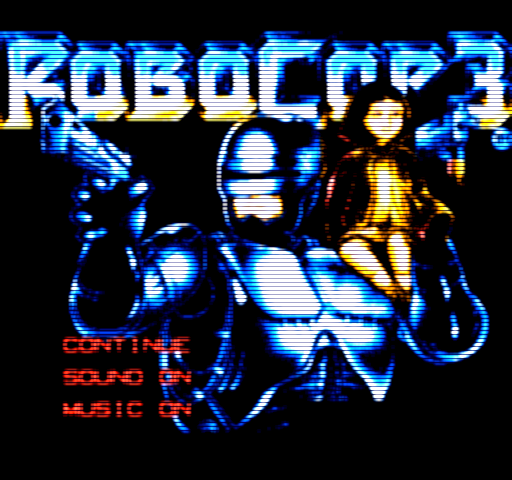
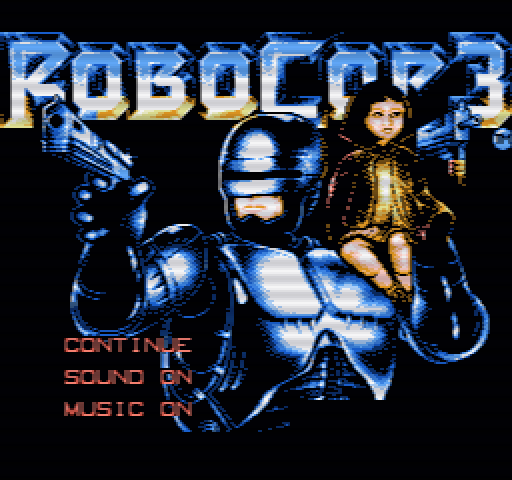
more progressish

diff --git a/main.py b/main.py
@@ -14,37 +14,51 @@ import re
 
 # This might be ported to another language.
 
-image_path = 'assets/jpg/sonic.jpg'
-image = cv2.imread(image_path)
-h, w = image.shape[:2]
-# fig, axs = plt.subplots(2,2,figsize=(9,9))
+# image_path = 'assets/jpg/sonic.jpg'
+# image = cv2.imread(image_path)
+# h, w = image.shape[:2]
+# # fig, axs = plt.subplots(2,2,figsize=(9,9))
 
-# Original Image
-image_rgb = cv2.cvtColor(image, cv2.COLOR_BGR2RGB)
-# axs[0][0].imshow(image_rgb)
-# axs[0][0].set_title('Original Image')
+# # Original Image
+# image_rgb = cv2.cvtColor(image, cv2.COLOR_BGR2RGB)
+# # axs[0][0].imshow(image_rgb)
+# # axs[0][0].set_title('Original Image')
 
-# Gaussian Blur
-Gaussian = cv2.GaussianBlur(image, (15, 15), 0)
-Gaussian_rgb = cv2.cvtColor(Gaussian, cv2.COLOR_BGR2RGB)  
-# axs[0][1].imshow(Gaussian_rgb)
-# axs[0][1].set_title('Gaussian Blur')
-cv2.imwrite('output/gaussian/sonic.png',Gaussian)
+# # Gaussian Blur
+# Gaussian = cv2.GaussianBlur(image, (15, 15), 0)
+# Gaussian_rgb = cv2.cvtColor(Gaussian, cv2.COLOR_BGR2RGB)  
+# # axs[0][1].imshow(Gaussian_rgb)
+# # axs[0][1].set_title('Gaussian Blur')
+# cv2.imwrite('output/gaussian/sonic.png',Gaussian)
 
-# Median Blur
-median = cv2.medianBlur(image, 11)  
-median_rgb = cv2.cvtColor(median, cv2.COLOR_BGR2RGB)  
-# axs[1][0].imshow(median_rgb)
-# axs[1][0].set_title('Median Blur')
-cv2.imwrite('output/median/sonic.png',median)
+# # Median Blur
+# median = cv2.medianBlur(image, 11)  
+# median_rgb = cv2.cvtColor(median, cv2.COLOR_BGR2RGB)  
+# # axs[1][0].imshow(median_rgb)
+# # axs[1][0].set_title('Median Blur')
+# cv2.imwrite('output/median/sonic.png',median)
 
-# Simulate green phosphor: Keep only green channel, make others 0
-# green_phosphor = image.copy()
-# green_phosphor[:, :, 0] = 0 # Blue
-# green_phosphor[:, :, 2] = 0 # Red
-# Add slight blur to simulate glow
+# # Simulate green phosphor: Keep only green channel, make others 0
+# # green_phosphor = image.copy()
+# # green_phosphor[:, :, 0] = 0 # Blue
+# # green_phosphor[:, :, 2] = 0 # Red
+# # Add slight blur to simulate glow
 
-def apply_crt_filter(filepath, scale = 1, scanline_interval = 3):
+def apply_scanlines(img, interval, offset=0, vertical=False, color=(25,0,0),thickness=1,inplace=True):
+    if not inplace: img = img.copy()
+    h,w = img.shape[:2]
+    if vertical:
+        for i in range(w//interval):
+            img = cv2.line(img, (i*interval+offset,0), (i*interval+offset,w),color,thickness)
+    else:
+        for i in range(h//interval):
+            img = cv2.line(img, (0,i*interval+offset), (w,i*interval+offset),color,thickness)
+    return img
+
+def overlayImages(img1,img2,weight1):
+    return cv2.addWeighted(img1,weight1,img2,1-weight1, 0)
+
+def apply_crt_filter(filepath, scale = 1, scanlines=True):
     filename = re.sub(r'(^.*/)|(\..*)', '', filepath)
     img = cv2.imread(filepath)
     # Resize image
@@ -56,30 +70,48 @@ def apply_crt_filter(filepath, scale = 1, scanline_interval = 3):
     else:
         new_h = height//scale
         new_w = width//scale
-    img = cv2.resize(img, (new_w,new_h))
-    height, width = new_h, new_w
+    img = cv2.resize(img, (new_w,new_h), interpolation=cv2.INTER_NEAREST)
+    # height, width = new_h, new_w
     # Increase saturation
-    imghsv = cv2.cvtColor(img, cv2.COLOR_BGR2HSV).astype("float32")
-    (h, s, v) = cv2.split(imghsv)
-    s = s*1.25
-    s = np.clip(s,0,255)
-    imghsv = cv2.merge([h,s,v])
-    imgrgb = cv2.cvtColor(imghsv.astype("uint8"), cv2.COLOR_HSV2BGR)
+    # imghsv = cv2.cvtColor(img, cv2.COLOR_BGR2HSV).astype("float32")
+    # (h, s, v) = cv2.split(imghsv)
+    # s = s*1.25
+    # s = np.clip(s,0,255)
+    # imghsv = cv2.merge([h,s,v])
+    # imgrgb = cv2.cvtColor(imghsv.astype("uint8"), cv2.COLOR_HSV2BGR)
     # Create copy to edit with
-    img_crt = imgrgb.copy()
+    # img_crt = imgrgb.copy()
+    img_crt = img.copy()
     # Apply vertical scanlines
     # interval2 = 3
     # for i in range(width//interval2):
     #     img_crt = cv2.line(img_crt, (i*interval2+interval2//2,0), (i*interval2+interval2//2,height),(0,0,0), 1)
-    # Apply blur
-    size = 5
-    img_crt = cv2.GaussianBlur(img_crt, (size,size),13)
+
+    
+    # num = 10
+    # alpha = 0.05
+    # offset division = 5
+    
+    # img_crt = cv2.blur(img_crt, (2,1))
+
     # Apply horizontal scanlines
-    for i in range(height//scanline_interval):
-        img_crt = cv2.line(img_crt, (0,i*scanline_interval+scanline_interval//2), (width,i*scanline_interval+scanline_interval//2),(25,0,0), 1)
+    if scanlines:
+        overlay = img_crt.copy()
+        num = 8
+        alpha = 0.05
+        for i in range(num+1):
+            temp = apply_scanlines(overlay,num,inplace=False,offset=num-i)
+            offset = (num-i)/12
+            img_crt = cv2.addWeighted(temp, alpha+offset, img_crt, 1-alpha-offset, 0)
+    
+
+    # Apply blur
+    # img_crt = cv2.GaussianBlur(img_crt, (5,1),1)
+
+    
     # Apply small blur on scanlines
-    size = 3
-    img_crt = cv2.GaussianBlur(img_crt, (size,size), 0.6)
+    # size = 3
+    # img_crt = cv2.GaussianBlur(img_crt, (size,size), 0.6)
     # # Apply contrast
     # lab= cv2.cvtColor(img_crt, cv2.COLOR_BGR2LAB)
     # l_channel, a, b = cv2.split(lab)
@@ -89,16 +121,32 @@ def apply_crt_filter(filepath, scale = 1, scanline_interval = 3):
     # limg = cv2.merge((cl,a,b))
     # enhanced_img = cv2.cvtColor(limg, cv2.COLOR_LAB2BGR)
     # img_crt = np.hstack((img_crt, enhanced_img))
-    weight1 = 2.5
-    img_crt = cv2.addWeighted(img_crt, weight1, imgrgb, 0, -50)
+    # weight1 = 2.5
+    # img_crt = cv2.addWeighted(img_crt, weight1, imgrgb, 0, -50)
     # TODO: blur horizontally more than vertically
+
+    # split into colors
+    # blue,green,red = cv2.split(img_crt)
+    # size,weight = (3,1),0.5
+    # blue = cv2.GaussianBlur(blue,size,weight)
+    # green = cv2.GaussianBlur(green,size,weight)
+    # red = cv2.GaussianBlur(red,size,weight)
+    # img_crt = cv2.merge([blue,green,red])
+    
+    # img_bilateral = cv2.bilateralFilter(img_crt,5,150,150)
+    # img_bilateral = cv2.GaussianBlur(img_crt,(3,1),0.6)
+    # img_crt = overlayImages(img_crt,img_bilateral,0)
     # Save output
     cv2.imwrite('output/crt/'+filename+'.png',img_crt)
 
-apply_crt_filter('assets/jpg/sonic.jpg')
+# apply_crt_filter('assets/jpg/sonic.jpg')
+# apply_crt_filter('assets/png/sonic2.png')
 for image_path in os.listdir('assets\png'):
-    apply_crt_filter('assets/png/'+image_path,1,4)
-apply_crt_filter('assets/png/peach.png', 6, 2)
+    apply_crt_filter('assets/png/'+image_path,2,scanlines=False)
+for image_path in os.listdir('C:\\Program Files (x86)\\Steam\\steamapps\\common\\Noita\\mods\\GlimmersExpanded\\files\gfx\\ui_gfx'):
+    apply_crt_filter('C:/Program Files (x86)/Steam/steamapps/common/Noita/mods/GlimmersExpanded/files/gfx/ui_gfx/'+image_path,1/10,scanlines=False)
+apply_crt_filter('assets/png/sonic2.png')
+# apply_crt_filter('assets/png/peach.png', 6, 2)
 
 
 # sqr_size = 5
@@ -127,9 +175,11 @@ apply_crt_filter('assets/png/peach.png', 6, 2)
 # axs[1][1].set_title('Bilateral Blur')
 # cv2.imwrite('output/bilateral/robocop_3.png',bilateral)
 
-for row in axs:
-    for ax in row:
-        ax.axis('off')
+# for row in axs:
+#     for ax in row:
+#         ax.axis('off')
+
+
 
 # plt.show()
 # %%
